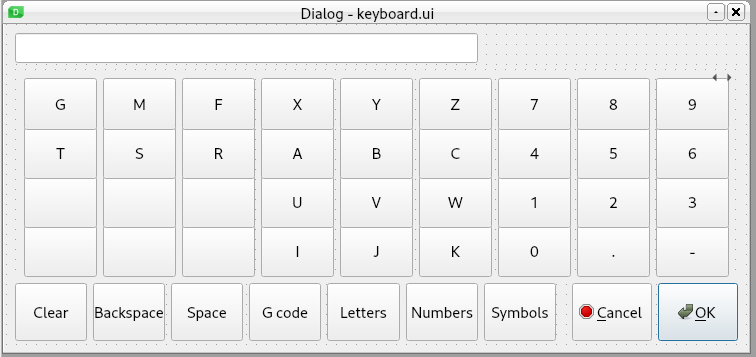
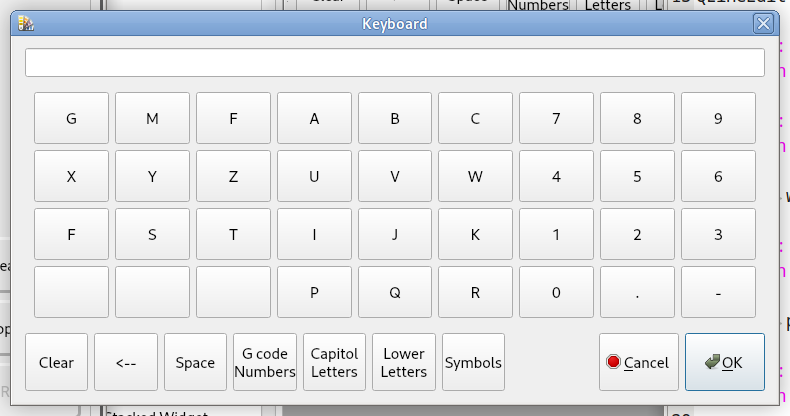
update docs

diff --git a/docs/source/mdi.rst b/docs/source/mdi.rst
@@ -4,35 +4,38 @@ Manual Data Input (MDI)
 MDI Interface
 -------------
 
-The MDI Interface uses a QLineEdit to enter commands. There are 3 possible ways
-to enter MDI commands. The `Keyboard` QLineEdit is used with the keyboard to
-type in commands. The `NC Popup` is a touch screen that has G and M words and a
-number keypad. The `Keyboard Popup` has a full keyboard for touch screens.
+The MDI Interface uses a QLineEdit named `mdi_command_le` to enter commands.
 
-.. csv-table:: MDI Command Entry
-   :width: 100%
+For touch screens there are two options a `NC Popup` is a touch screen that has
+G and M words and a number keypad or a `Keyboard Popup` has a full keyboard.
+
+To enable a popup add a Dynamic string type Property to the `mdi_command_le`
+QLineEdit and name it `input` and set the value to either `nccode` or
+`keyboard`.
+
+Dynamic Property
+
+.. image:: /images/dynamic-property-01.png
    :align: center
 
-	**Function**, **Input**, **Widget**, **Name**
-	Enter MDI, Keyboard, QLineEdit, mdi_command_le
-	Enter MDI, NC Popup, QLineEdit, mdi_command_gc_le
-	Enter MDI, Keyboard Popup, QLineEdit, mdi_command_kb_le
+Setting the value
 
-NC popup window:
-
-.. image:: /images/gcode-popup.png
+.. image:: /images/dynamic-property-02.png
    :align: center
 
-Keyboard popup window:
+NC code popup window
+
+.. image:: /images/nccode-popup.png
+   :align: center
+
+Keyboard popup window
 
 .. image:: /images/keyboard-popup.png
    :align: center
 
-
 MDI history uses a QListWidget named `mdi_history_lw` to display the MDI
 history. You can click on a line in the history display to copy the command to
 the MDI Interface, ready for running.
-
 
 MDI Controls
 ------------
@@ -50,7 +53,6 @@ history
 
 The MDI history is kept in a file named `mdi_history.txt` in the configuration
 directory.
-
 
 .. _MdiButtonTag:
 

diff --git a/docs/source/touch.rst b/docs/source/touch.rst
@@ -36,7 +36,7 @@ MDI
 ---
 
 To enable the popup entry dialogs for the MDI entry, the QLineEdit object name
-must be `mdi_command_le` and the Dynamic Property `input` must be `gcode` for
+must be `mdi_command_le` and the Dynamic Property `input` must be `nccode` for
 the NC codes popup or `keyboard` for a full keyboard popup.
 
 The G codes dialog will appear when you touch the MDI entry box
@@ -89,7 +89,7 @@ Line Edits
 
 A QLineEdit can have a popup entry for numbers, G codes, or a full keyboard.
 Add a Dynamic Property named `input` and set the value to one of these
-`number`, `gcode`, or `keyboard`.
+`number`, `nccode`, or `keyboard`.
 
 File Navigator
 --------------